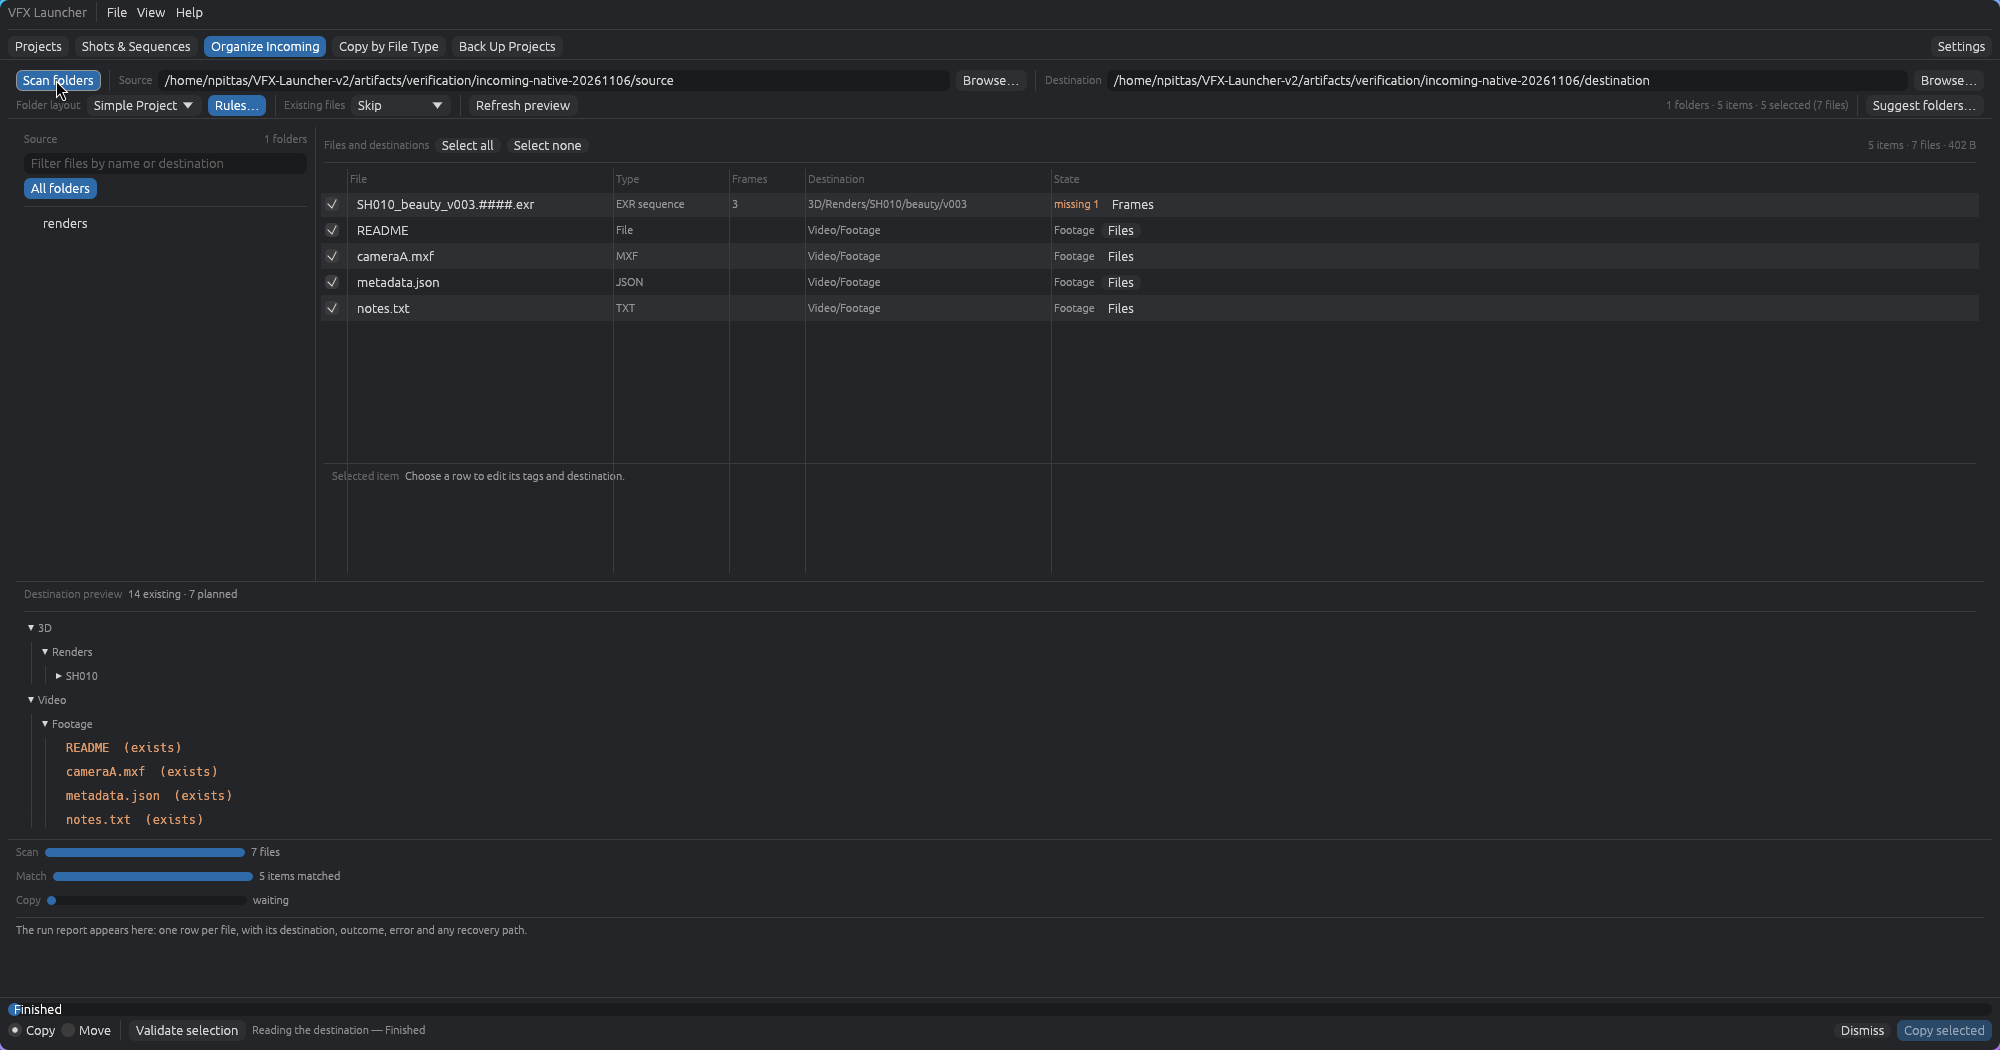
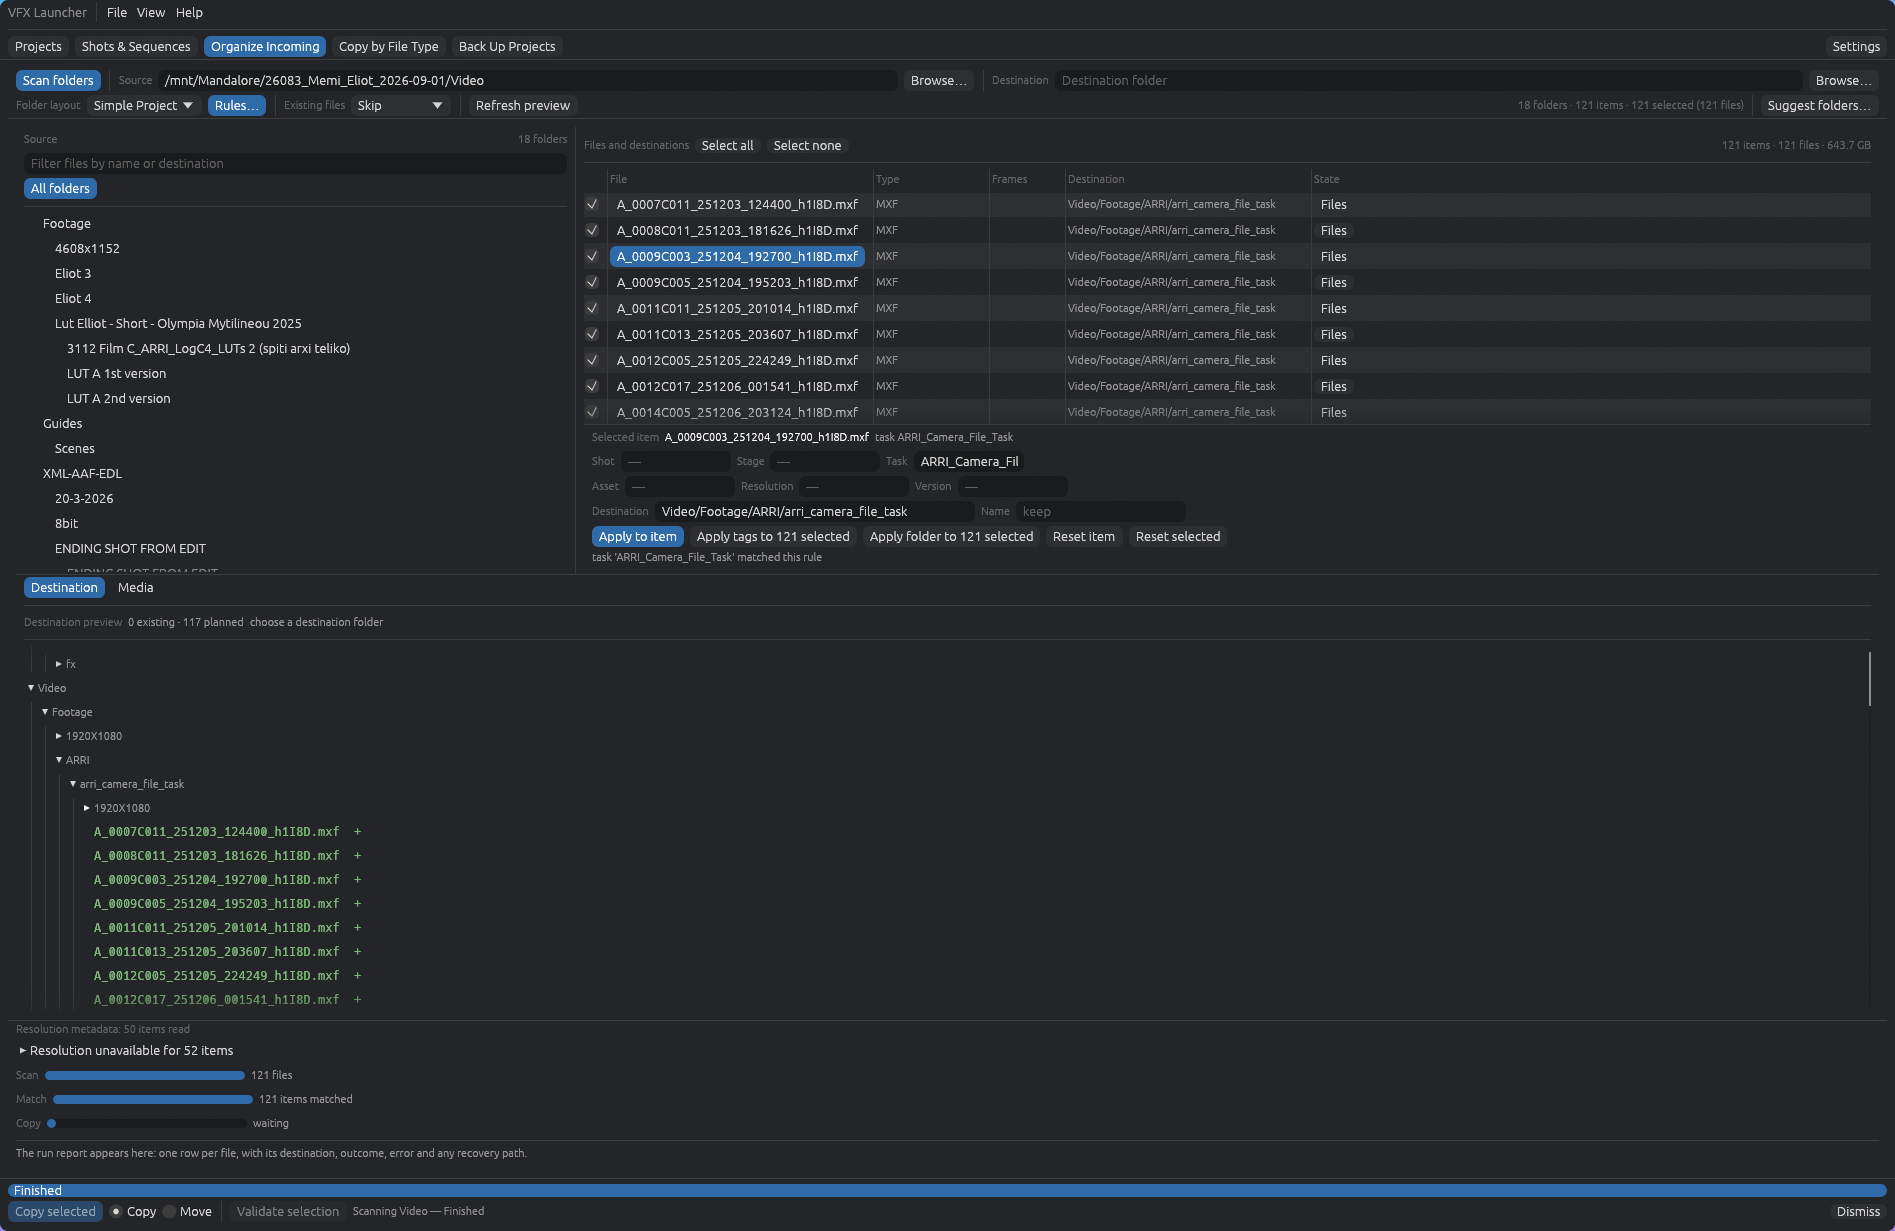
Use supplied desktop screenshots and remove GitHub build workflow

diff --git a/README.md b/README.md
@@ -13,15 +13,27 @@ No Python or Rust installation is needed for these packages. Windows 0.2.0 is al
 
 ## Screenshots
 
-Actual native desktop captures from earlier feature-local verification runs, using disposable data; these are not mockups or evidence of a new 0.3.4 runtime check.
+Screenshots supplied by the user of the native desktop pages.
 
-**Projects on Windows (0.2.0):** browse projects, choose a script version, and launch it.
+### Projects
 
-![Native Windows Projects page with a Nuke script and version selector](docs/images/windows-projects.png)
+![Projects with script version selection](docs/images/projects.png)
 
-**Organize Incoming on Linux (earlier development capture):** grouped sequences, proposed destinations, folder preview, and explicit validation and copy controls.
+### Shots & Sequences
 
-![Native Incoming page showing sequence grouping and destination review](docs/images/incoming.png)
+![Shots and sequences with destination preview](docs/images/shots-sequences.png)
+
+### Organize Incoming
+
+![Incoming media routing and destination preview](docs/images/incoming.png)
+
+### Copy by File Type
+
+![Selected file types and reviewed copy destinations](docs/images/copy.png)
+
+### Back Up Projects
+
+![Backup comparison and selected project files](docs/images/backup.png)
 
 ## Latest updates
 
